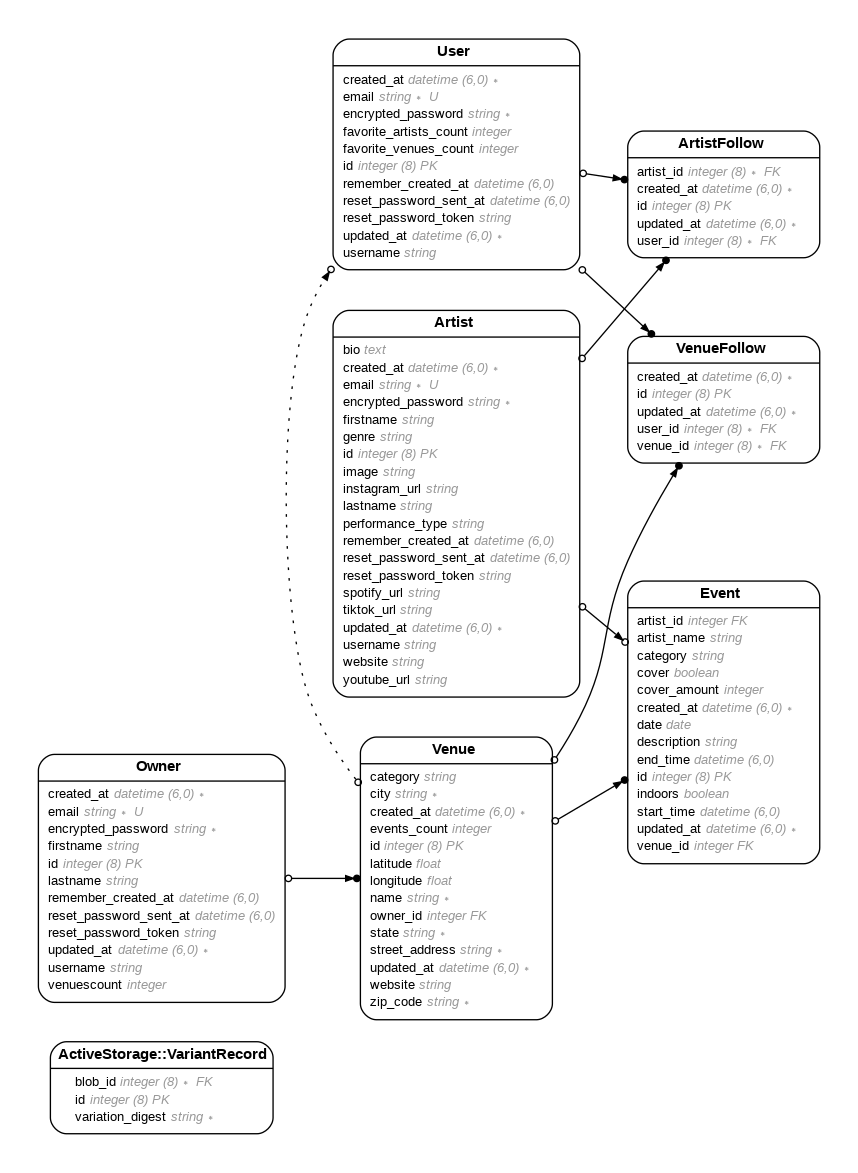
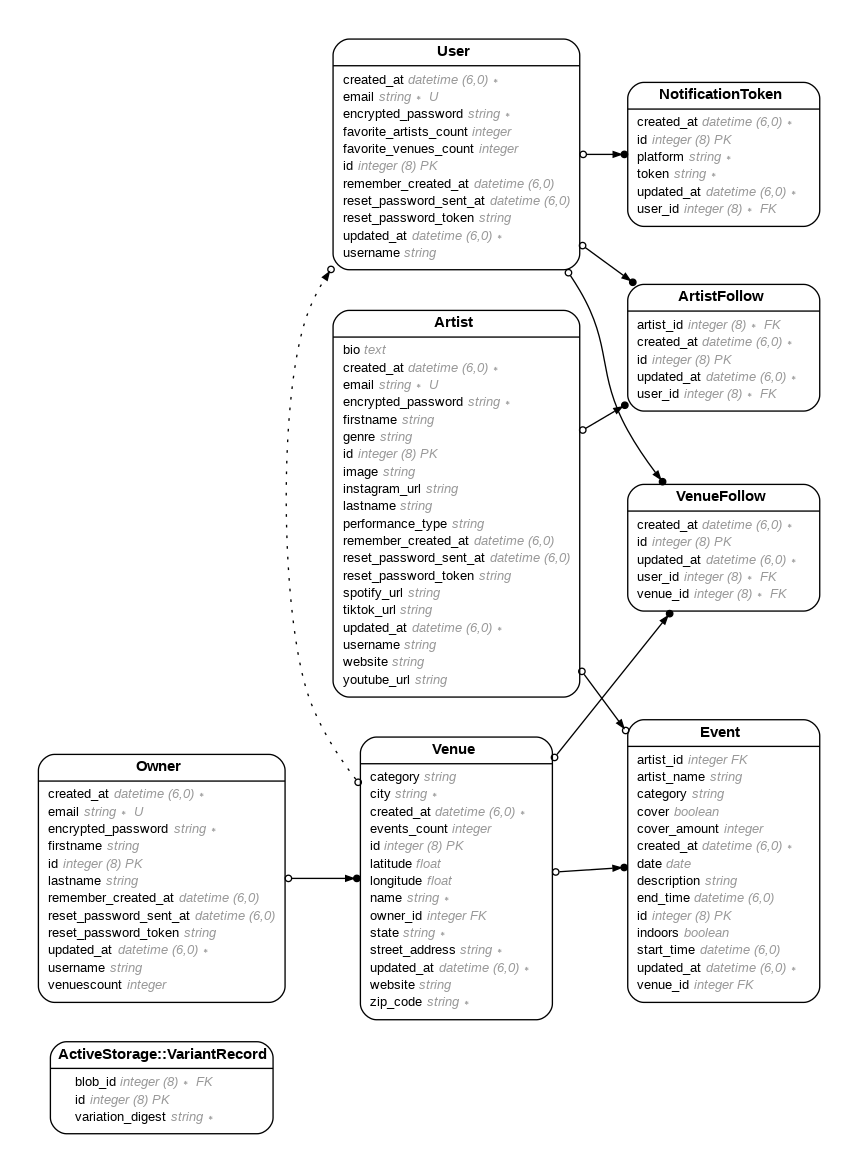
done 215

diff --git a/app/javascript/controllers/bridge/notification_token_controller.js b/app/javascript/controllers/bridge/notification_token_controller.js
@@ -1,0 +1,13 @@
+import { BridgeComponent } from "@hotwired/hotwire-native-bridge"
+
+// Connects to data-controller="bridge--notification-token"
+export default class extends BridgeComponent {
+  static component = "notification-token"
+
+  connect() {
+    super.connect()
+    this.send("connect")
+  }
+}
+
+// on page 215 need to figure out where to add this

diff --git a/db/schema.rb b/db/schema.rb
@@ -10,7 +10,7 @@
 #
 # It's strongly recommended that you check this file into your version control system.
 
-ActiveRecord::Schema[8.0].define(version: 2025_05_17_153942) do
+ActiveRecord::Schema[8.0].define(version: 2025_05_25_182012) do
   # These are extensions that must be enabled in order to support this database
   enable_extension "pg_catalog.plpgsql"
 
@@ -98,6 +98,15 @@ ActiveRecord::Schema[8.0].define(version: 2025_05_17_153942) do
     t.datetime "updated_at", null: false
     t.index ["artist_id"], name: "index_follows_on_artist_id"
     t.index ["user_id"], name: "index_follows_on_user_id"
+  end
+
+  create_table "notification_tokens", force: :cascade do |t|
+    t.bigint "user_id", null: false
+    t.string "token", null: false
+    t.string "platform", null: false
+    t.datetime "created_at", null: false
+    t.datetime "updated_at", null: false
+    t.index ["user_id"], name: "index_notification_tokens_on_user_id"
   end
 
   create_table "owners", force: :cascade do |t|
@@ -304,6 +313,7 @@ ActiveRecord::Schema[8.0].define(version: 2025_05_17_153942) do
   add_foreign_key "artist_follows", "users"
   add_foreign_key "follows", "artists"
   add_foreign_key "follows", "users"
+  add_foreign_key "notification_tokens", "users"
   add_foreign_key "solid_queue_blocked_executions", "solid_queue_jobs", column: "job_id", on_delete: :cascade
   add_foreign_key "solid_queue_claimed_executions", "solid_queue_jobs", column: "job_id", on_delete: :cascade
   add_foreign_key "solid_queue_failed_executions", "solid_queue_jobs", column: "job_id", on_delete: :cascade

diff --git a/app/models/notification_token.rb b/app/models/notification_token.rb
@@ -1,0 +1,25 @@
+# == Schema Information
+#
+# Table name: notification_tokens
+#
+#  id         :bigint           not null, primary key
+#  platform   :string           not null
+#  token      :string           not null
+#  created_at :datetime         not null
+#  updated_at :datetime         not null
+#  user_id    :bigint           not null
+#
+# Indexes
+#
+#  index_notification_tokens_on_user_id  (user_id)
+#
+# Foreign Keys
+#
+#  fk_rails_...  (user_id => users.id)
+#
+class NotificationToken < ApplicationRecord
+  belongs_to :user
+
+  validates :token, presence: true
+  validates :platform, inclusion: {in: %w[iOS]}
+end

diff --git a/db/migrate/20250525182012_create_notification_tokens.rb b/db/migrate/20250525182012_create_notification_tokens.rb
@@ -1,0 +1,11 @@
+class CreateNotificationTokens < ActiveRecord::Migration[8.0]
+  def change
+    create_table :notification_tokens do |t|
+      t.references :user, null: false, foreign_key: true
+      t.string :token, null: false
+      t.string :platform, null: false
+
+      t.timestamps
+    end
+  end
+end
